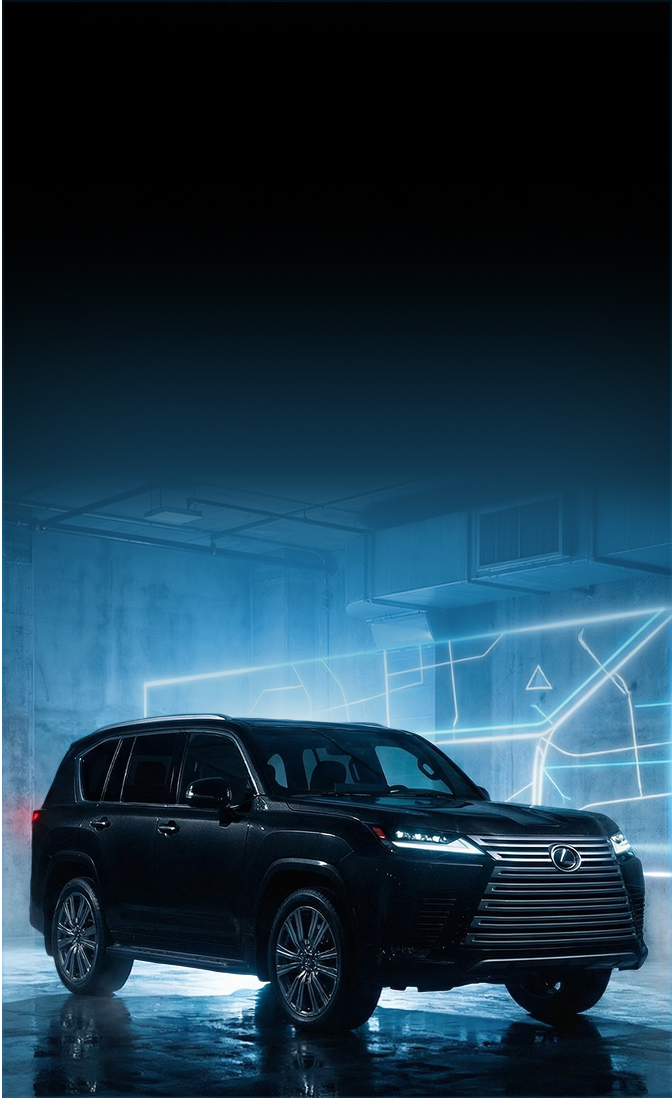
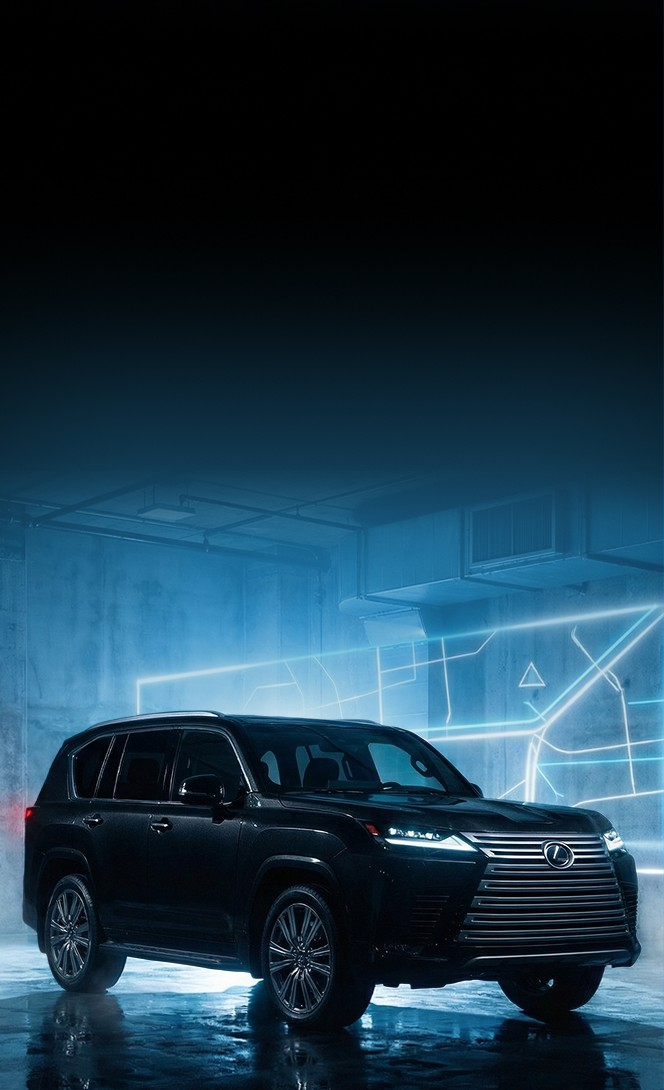
Fixes

diff --git a/css/service_detail.css b/css/service_detail.css
@@ -1127,14 +1127,18 @@ section.navigation div.text button {
 section.navigation img.background {
   position: absolute;
   top: 0;
-  left: 0;
+  right: 0;
   width: 100%;
   height: 100%;
   -o-object-fit: cover;
      object-fit: cover;
+  -o-object-position: center right;
+     object-position: center right;
 }
 section.navigation img.background.desktop {
   display: block;
+  right: -10%;
+  width: 110%;
 }
 @media (max-width: 640px) {
   section.navigation img.background.desktop {
@@ -1143,8 +1147,8 @@ section.navigation img.background.desktop {
 }
 section.navigation img.background.mobile {
   display: none;
-  -o-object-position: bottom;
-     object-position: bottom;
+  -o-object-position: bottom right;
+     object-position: bottom right;
 }
 @media (max-width: 640px) {
   section.navigation img.background.mobile {

diff --git a/css/services.css b/css/services.css
@@ -1397,14 +1397,18 @@ section.navigation div.text button {
 section.navigation img.background {
   position: absolute;
   top: 0;
-  left: 0;
+  right: 0;
   width: 100%;
   height: 100%;
   -o-object-fit: cover;
      object-fit: cover;
+  -o-object-position: center right;
+     object-position: center right;
 }
 section.navigation img.background.desktop {
   display: block;
+  right: -10%;
+  width: 110%;
 }
 @media (max-width: 640px) {
   section.navigation img.background.desktop {
@@ -1413,8 +1417,8 @@ section.navigation img.background.desktop {
 }
 section.navigation img.background.mobile {
   display: none;
-  -o-object-position: bottom;
-     object-position: bottom;
+  -o-object-position: bottom right;
+     object-position: bottom right;
 }
 @media (max-width: 640px) {
   section.navigation img.background.mobile {

diff --git a/css/index.css b/css/index.css
@@ -701,14 +701,18 @@ section.navigation div.text button {
 section.navigation img.background {
   position: absolute;
   top: 0;
-  left: 0;
+  right: 0;
   width: 100%;
   height: 100%;
   -o-object-fit: cover;
      object-fit: cover;
+  -o-object-position: center right;
+     object-position: center right;
 }
 section.navigation img.background.desktop {
   display: block;
+  right: -10%;
+  width: 110%;
 }
 @media (max-width: 640px) {
   section.navigation img.background.desktop {
@@ -717,8 +721,8 @@ section.navigation img.background.desktop {
 }
 section.navigation img.background.mobile {
   display: none;
-  -o-object-position: bottom;
-     object-position: bottom;
+  -o-object-position: bottom right;
+     object-position: bottom right;
 }
 @media (max-width: 640px) {
   section.navigation img.background.mobile {

diff --git a/components/sections/_navigation.sass b/components/sections/_navigation.sass
@@ -46,17 +46,20 @@ section.navigation
     img.background
         position: absolute
         top: 0
-        left: 0
+        right: 0
         width: 100%
         height: 100%
         object-fit: cover
+        object-position: center right
 
         &.desktop
             display: block
+            right: -10%
+            width: 110%
             +s(s)
                 display: none
         &.mobile
             display: none
-            object-position: bottom
+            object-position: bottom right
             +s(s)
                 display: block

diff --git a/scripts/main.js b/scripts/main.js
@@ -537,7 +537,7 @@ timelineAdvantages.to(advantagesListItem, { opacity: 1, x: 0, stagger: 0.1 })
 
 
 // GSAP - Common Titles
-const sectionTitles = document.querySelectorAll(':is(section.example, section.decision, section.navigation) div.text')
+const sectionTitles = document.querySelectorAll(':is(section.example, section.decision, section.navigation, section.choose) div.text')
 sectionTitles.forEach(title => {
 
     const timeline = createTimeline(title)
